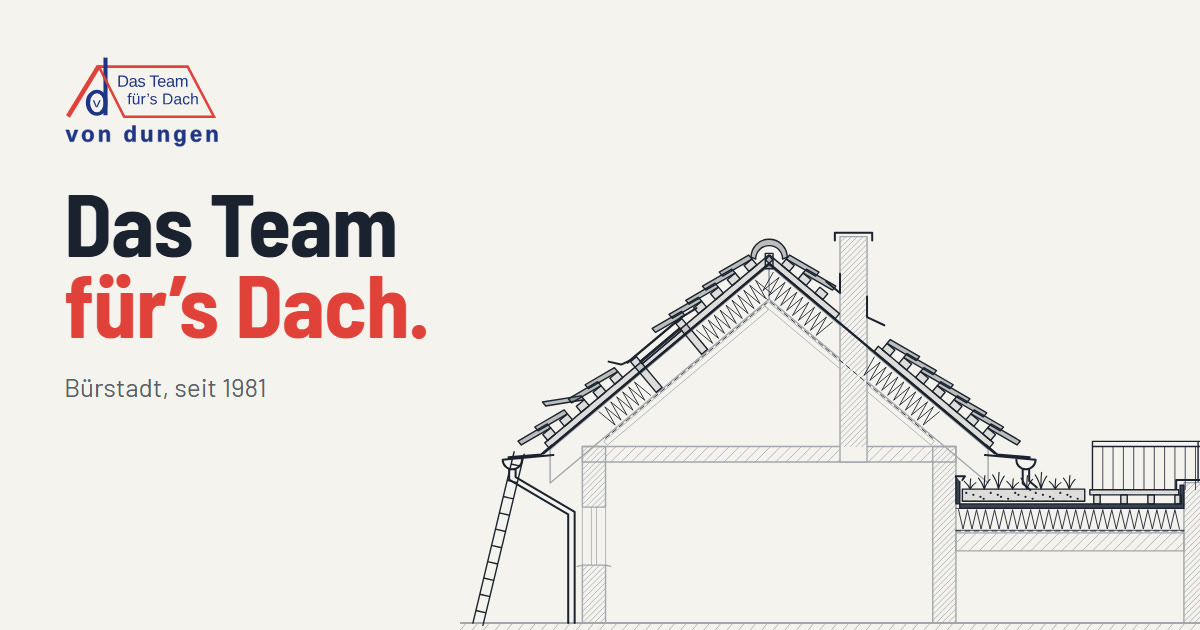
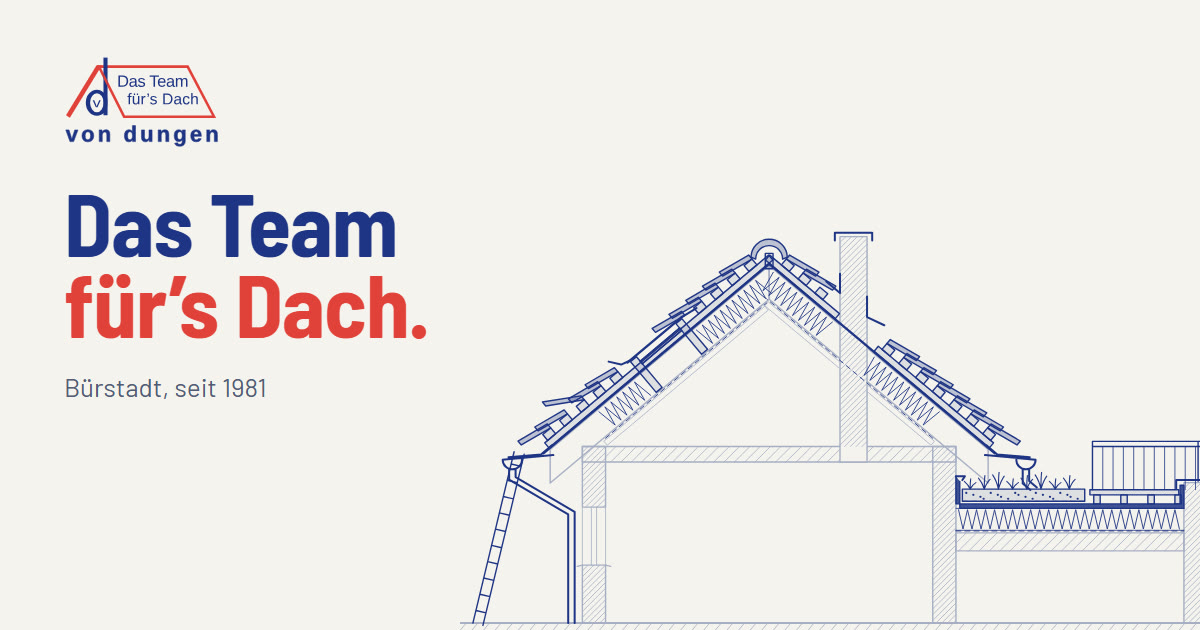
Vorschaubild zum Teilen in Blau neu erzeugt

diff --git a/index.html b/index.html
@@ -18,7 +18,7 @@
 <!-- TODO Bilal: Beim Umzug og:url und og:image auf https://vondungen-dach.de/ umstellen.
      Bis dahin zeigen sie auf die Vorschau, damit WhatsApp beim Teilen ein Bild zeigt. -->
 <meta property="og:url" content="https://bilal-altu.github.io/von-dungen/" />
-<meta property="og:image" content="https://bilal-altu.github.io/von-dungen/assets/img/og-bild.jpg" />
+<meta property="og:image" content="https://bilal-altu.github.io/von-dungen/assets/img/og-bild.jpg?v=2" />
 <meta name="twitter:card" content="summary_large_image" />
 <meta name="theme-color" content="#f5f3ee" />
 <link rel="icon" href="favicon.svg" type="image/svg+xml" />
@@ -594,7 +594,7 @@
   "description": "Dach- und Spenglerarbeiten in Bürstadt: Steildach, Flachdach, Dachdämmung, Dachflächenfenster, Dachbegrünung, Balkon und Terrasse, Reparatur und Wartung.",
   "url": "https://vondungen-dach.de/",
   "logo": "https://bilal-altu.github.io/von-dungen/assets/img/logo-von-dungen.svg",
-  "image": "https://bilal-altu.github.io/von-dungen/assets/img/og-bild.jpg",
+  "image": "https://bilal-altu.github.io/von-dungen/assets/img/og-bild.jpg?v=2",
   "telephone": "+49 6206 6437",
   "email": "vondungen@t-online.de",
   "foundingDate": "1981",

diff --git a/karriere.html b/karriere.html
@@ -11,7 +11,7 @@
 <meta property="og:locale" content="de_DE" />
 <meta property="og:title" content="Arbeiten bei von Dungen, Bürstadt" />
 <meta property="og:url" content="https://bilal-altu.github.io/von-dungen/karriere.html" />
-<meta property="og:image" content="https://bilal-altu.github.io/von-dungen/assets/img/og-bild.jpg" />
+<meta property="og:image" content="https://bilal-altu.github.io/von-dungen/assets/img/og-bild.jpg?v=2" />
 <meta name="theme-color" content="#f5f3ee" />
 <link rel="icon" href="favicon.svg" type="image/svg+xml" />
 <link rel="preload" href="assets/fonts/barlow-semi-condensed-700.woff2" as="font" type="font/woff2" crossorigin />
